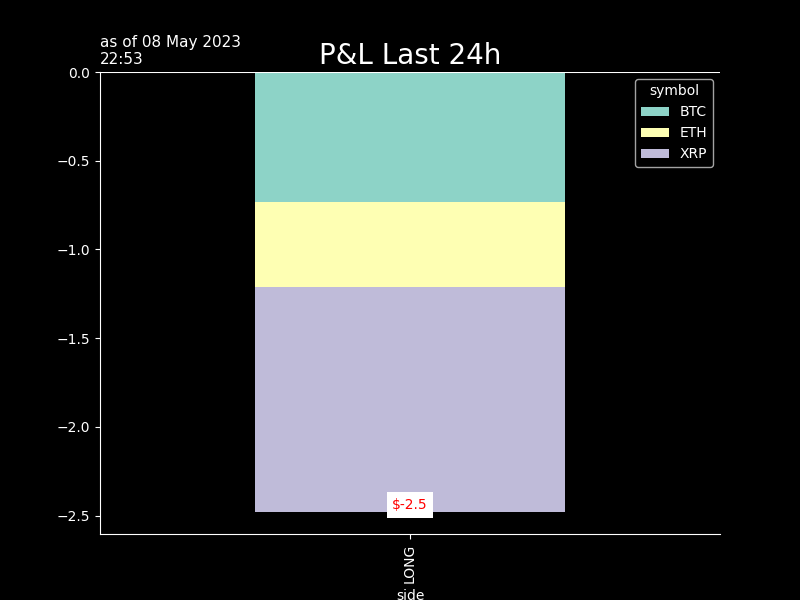
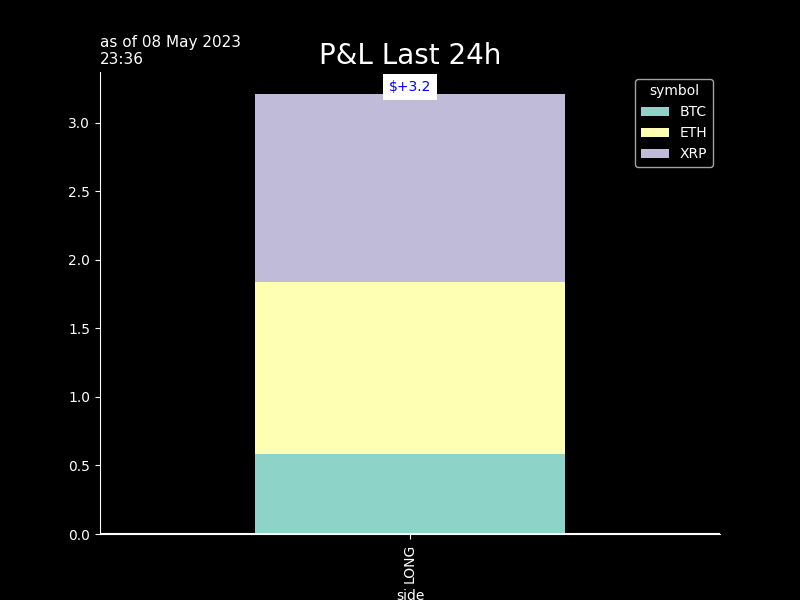
seb_commit

diff --git a/crypto/graphs/bt_trades_book.htmltrade_trades_book.html b/crypto/graphs/bt_trades_book.htmltrade_trades_book.html
@@ -37,55 +37,55 @@
   </thead>
   <tbody>
     <tr>
-      <th>BTCUSDT</th>
-      <td>27486.6000</td>
-      <td>2023-05-08 18:33:51</td>
-      <td>0.005</td>
-      <td>$137.4</td>
-      <td>$0.03</td>
+      <th>XRPUSDT</th>
+      <td>0.4234</td>
+      <td>2023-05-08 22:34:15</td>
+      <td>-427.700</td>
+      <td>$-181.1</td>
+      <td>$0.04</td>
       <td>2.0</td>
-      <td>0.0</td>
-      <td>27512.85000</td>
-      <td>2023-05-08 19:31</td>
-      <td>0.1</td>
-      <td>9.0</td>
-      <td>27468.6</td>
+      <td>1.4</td>
+      <td>0.42375</td>
+      <td>2023-05-08 23:31</td>
       <td>-0.1</td>
-      <td>-7.0</td>
+      <td>-8.0</td>
+      <td>.4235</td>
+      <td>-0.0</td>
+      <td>-2.0</td>
+    </tr>
+    <tr>
+      <th>BTCUSDT</th>
+      <td>27603.5000</td>
+      <td>2023-05-08 22:34:16</td>
+      <td>-0.006</td>
+      <td>$-165.6</td>
+      <td>$0.07</td>
+      <td>4.0</td>
+      <td>0.6</td>
+      <td>27595.85000</td>
+      <td>2023-05-08 23:31</td>
+      <td>0.1</td>
+      <td>3.0</td>
+      <td>27597.6</td>
+      <td>0.0</td>
+      <td>2.0</td>
     </tr>
     <tr>
       <th>ETHUSDT</th>
-      <td>1827.0000</td>
-      <td>2023-05-08 18:33:34</td>
-      <td>0.078</td>
-      <td>$142.5</td>
+      <td>1843.2100</td>
+      <td>2023-05-08 22:35:43</td>
+      <td>-0.078</td>
+      <td>$-143.8</td>
       <td>$0.03</td>
       <td>2.0</td>
-      <td>0.0</td>
-      <td>1828.50500</td>
-      <td>2023-05-08 19:31</td>
-      <td>0.1</td>
-      <td>8.0</td>
-      <td>1826.05</td>
-      <td>-0.1</td>
-      <td>-5.0</td>
-    </tr>
-    <tr>
-      <th>XRPUSDT</th>
-      <td>0.4194</td>
-      <td>2023-05-08 18:33:37</td>
-      <td>341.800</td>
-      <td>$143.4</td>
-      <td>$0.03</td>
-      <td>2.0</td>
-      <td>0.0</td>
-      <td>0.41975</td>
-      <td>2023-05-08 19:31</td>
-      <td>0.1</td>
-      <td>8.0</td>
-      <td>.4193</td>
+      <td>1.3</td>
+      <td>1843.48500</td>
+      <td>2023-05-08 23:31</td>
       <td>-0.0</td>
-      <td>-2.0</td>
+      <td>-1.0</td>
+      <td>1843.37</td>
+      <td>-0.0</td>
+      <td>-1.0</td>
     </tr>
   </tbody>
 </table>

diff --git a/crypto/graphs/bt_trades_pnlD_recap.htmltrade_trades_pnlD_recap.html b/crypto/graphs/bt_trades_pnlD_recap.htmltrade_trades_pnlD_recap.html
@@ -1,7 +1,7 @@
 <table border="1" class="dataframe">
   <thead>
     <tr style="text-align: right;">
-      <th>08 May 19:33</th>
+      <th>08 May 23:35</th>
       <th>realizedPnl</th>
       <th>PnLvsArrival</th>
       <th>PnLvsLast</th>
@@ -10,21 +10,21 @@
   <tbody>
     <tr>
       <th>in$</th>
-      <td>0.0</td>
-      <td>0.4</td>
-      <td>-0.2</td>
+      <td>3.2</td>
+      <td>-0.1</td>
+      <td>-0.0</td>
     </tr>
     <tr>
-      <th>in bp 423 traded</th>
-      <td>0 bp</td>
-      <td>9 bp</td>
+      <th>in bp 490 traded</th>
+      <td>65 bp</td>
+      <td>-2 bp</td>
+      <td>-0 bp</td>
+    </tr>
+    <tr>
+      <th>in bp 290 AUMs</th>
+      <td>111 bp</td>
       <td>-4 bp</td>
-    </tr>
-    <tr>
-      <th>in bp 286 AUMs</th>
-      <td>0 bp</td>
-      <td>13 bp</td>
-      <td>-7 bp</td>
+      <td>-0 bp</td>
     </tr>
   </tbody>
 </table>

diff --git a/crypto/graphs/bt_trades_recap.htmltrade_trades_recap.html b/crypto/graphs/bt_trades_recap.htmltrade_trades_recap.html
@@ -9,33 +9,33 @@
   <tbody>
     <tr>
       <th>as of</th>
-      <td>08May 18:33&gt;&gt;18:33</td>
+      <td>08May 22:34&gt;&gt;22:35</td>
       <td>#trades: 3</td>
     </tr>
     <tr>
       <th>trade net</th>
-      <td>+423.0</td>
-      <td>+147.4%</td>
+      <td>-490.0</td>
+      <td>-168.9%</td>
     </tr>
     <tr>
       <th>trade gross</th>
-      <td>+423.0</td>
-      <td>+147.4%</td>
+      <td>+490.0</td>
+      <td>+168.9%</td>
     </tr>
     <tr>
       <th>BUY</th>
-      <td>+423.0</td>
-      <td>+147.4%</td>
-    </tr>
-    <tr>
-      <th>SELL</th>
       <td>+0.0</td>
       <td>+0.0%</td>
     </tr>
     <tr>
+      <th>SELL</th>
+      <td>-490.0</td>
+      <td>-168.9%</td>
+    </tr>
+    <tr>
       <th>fees</th>
-      <td>$ 0.085</td>
-      <td>2.0bp</td>
+      <td>$ 0.131</td>
+      <td>2.68bp</td>
     </tr>
   </tbody>
 </table>
